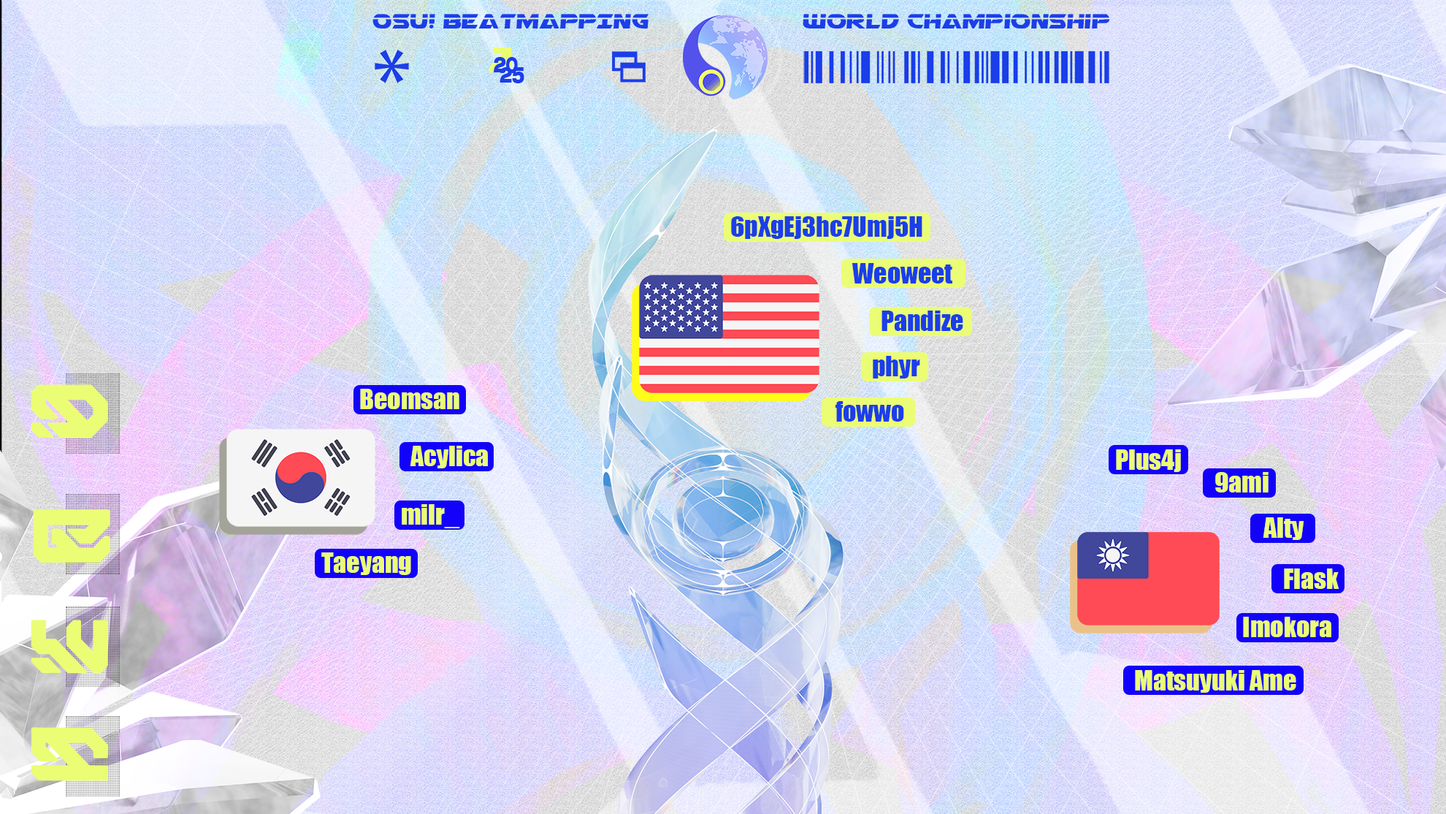
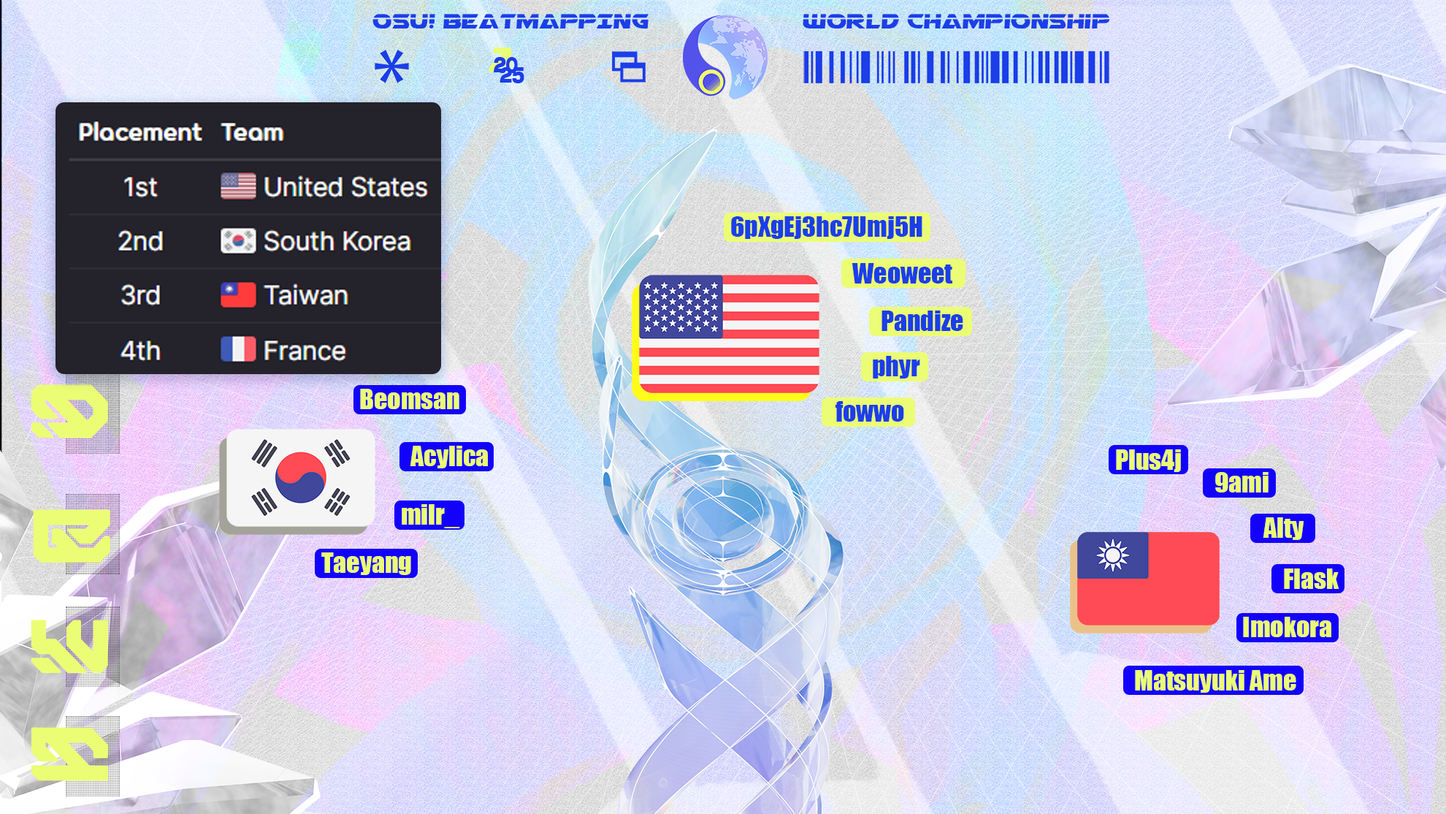
Add team standings to the OBWC 2025 results image

Changed region(s): [[0.0308, 0.1221, 0.3081, 0.4883]]

diff --git a/README.en.md b/README.en.md
@@ -381,7 +381,7 @@ Northeast Electric Power University (China) BSc in Software Engineering<br>4-yea
 
 <img src="assets/etc/1st.png" width="680" alt="Taeyang 1st place leaderboard" />
 
-<img src="assets/etc/obwc-2025-result.png" width="680" alt="osu! Beatmapping World Championship 2025 results" />
+<img src="assets/etc/obwc-2025-result.png" width="100%" alt="osu! Beatmapping World Championship 2025 results and team standings" />
 
 </div>
 

diff --git a/README.zh.md b/README.zh.md
@@ -381,7 +381,7 @@ AI Bootcamp 第16期 人工智能建模<br>6个月学习 + 1个月企业协作
 
 <img src="assets/etc/1st.png" width="680" alt="Taeyang 1st place leaderboard" />
 
-<img src="assets/etc/obwc-2025-result.png" width="680" alt="osu! Beatmapping World Championship 2025 results" />
+<img src="assets/etc/obwc-2025-result.png" width="100%" alt="osu! Beatmapping World Championship 2025 results and team standings" />
 
 </div>
 
